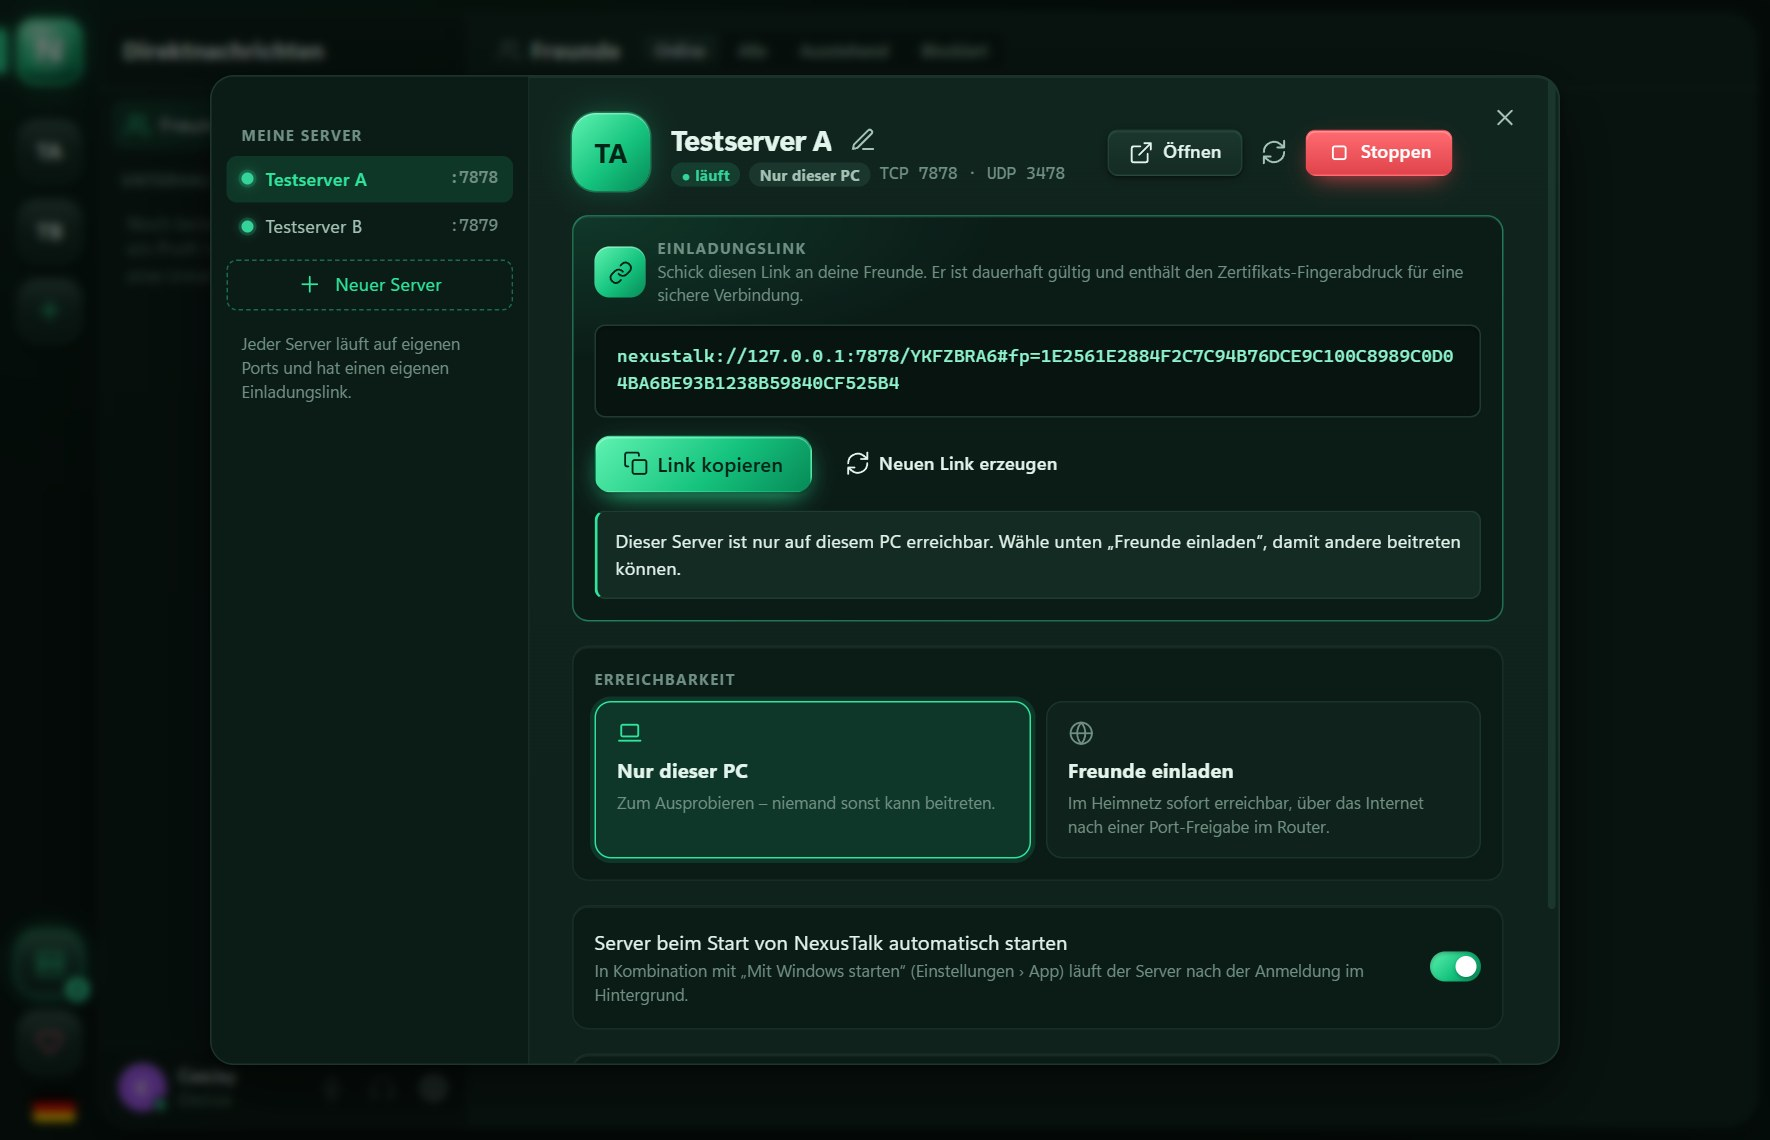
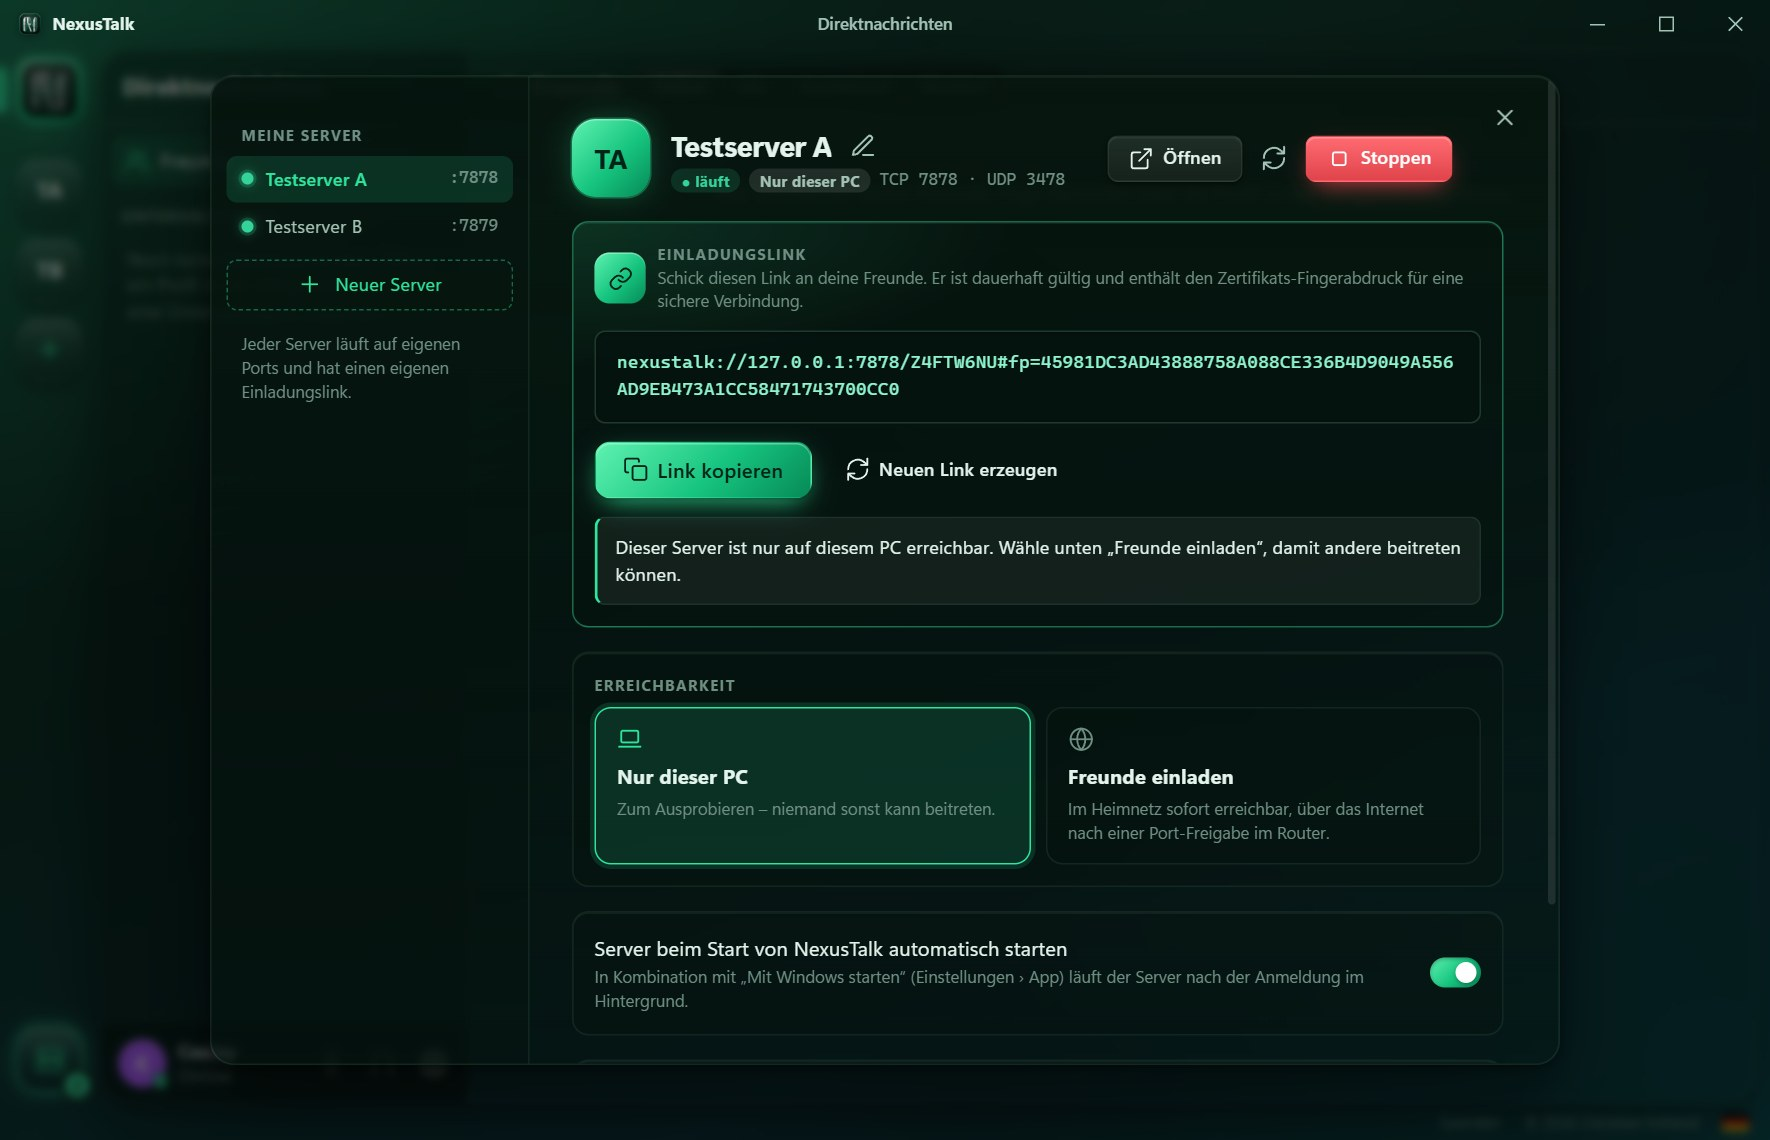
NexusTalk 0.4.0
- Version 0.4.0 (Cargo, Tauri, package.json)
- Projektseite: neues Logo, Seitenkopf mit echter Desktop-Ansicht
  (eigene Titelleiste), Abschnitt zu Farbverlauf-Designs, Sounds und Logo,
  Galerie mit allen zehn Designs, neue Screenshots
- shots.mjs an Fußzeile/Einstellungen angepasst
- Doku auf Stand 0.4.0

diff --git a/website/index.html b/website/index.html
@@ -12,7 +12,7 @@
 <meta property="og:type" content="website">
 <meta property="og:title" content="NexusTalk – Deine Community. Dein Server.">
 <meta property="og:description" content="Selbst hostbare Alternative zu Discord: Text, Sprache, Video und Bildschirm – ohne Cloud, ohne Werbung, ohne Tracking.">
-<meta property="og:image" content="https://nexustalk-app.netlify.app/assets/shots/emerald-de-chat.jpg">
+<meta property="og:image" content="https://nexustalk-app.netlify.app/assets/shots/desk-emerald.jpg">
 <meta property="og:url" content="https://nexustalk-app.netlify.app/">
 <meta name="twitter:card" content="summary_large_image">
 <script type="application/ld+json">
@@ -22,11 +22,11 @@
   "name": "NexusTalk",
   "operatingSystem": "Windows 10, Windows 11 (x64)",
   "applicationCategory": "CommunicationApplication",
-  "softwareVersion": "0.3.0",
+  "softwareVersion": "0.4.0",
   "offers": { "@type": "Offer", "price": "0", "priceCurrency": "EUR" },
-  "downloadUrl": "https://nexustalk-app.netlify.app/download/NexusTalk_0.3.0_x64-setup.exe",
+  "downloadUrl": "https://nexustalk-app.netlify.app/download/NexusTalk_0.4.0_x64-setup.exe",
   "image": "https://nexustalk-app.netlify.app/assets/logo.png",
-  "screenshot": "https://nexustalk-app.netlify.app/assets/shots/emerald-de-chat.jpg",
+  "screenshot": "https://nexustalk-app.netlify.app/assets/shots/desk-emerald.jpg",
   "license": "https://opensource.org/licenses/MIT",
   "author": { "@type": "Person", "name": "Christian Schiessl", "url": "https://cjs86.netlify.app" }
 }
@@ -441,11 +441,11 @@ footer .brand { font-size: 15px; }
     <div class="wrap hero-grid">
       <div>
         <div class="logo3d"><img src="assets/logo.png" alt="NexusTalk Logo" width="120" height="120"></div>
-        <span class="eyebrow"><span class="dot"></span>Neu in 0.3.0: mehrere Server hosten · kostenlos · MIT</span>
+        <span class="eyebrow"><span class="dot"></span>Neu in 0.4.0: Farbverlauf-Designs &amp; Sounds · kostenlos · MIT</span>
         <h1>Deine Community.<br><em>Dein Server.</em></h1>
         <p class="lead">NexusTalk ist eine schlanke Alternative zu Discord für Windows: Text, Sprache, Video und Bildschirmübertragung – auf einem Server, der dir gehört. Per Klick direkt in der App gestartet. Keine Cloud, keine Werbung, kein Tracking.</p>
         <div class="hero-actions">
-          <a class="btn primary" href="download/NexusTalk_0.3.0_x64-setup.exe" download><svg><use href="#i-windows"/></svg>Für Windows herunterladen</a>
+          <a class="btn primary" href="download/NexusTalk_0.4.0_x64-setup.exe" download><svg><use href="#i-windows"/></svg>Für Windows herunterladen</a>
           <a class="btn" href="#vergleich">Warum nicht Discord?</a>
         </div>
         <div class="hero-meta">
@@ -456,8 +456,7 @@ footer .brand { font-size: 15px; }
       </div>
       <div class="stage">
         <div class="device" id="device">
-          <div class="bar"><i></i><i></i><i></i><span>NexusTalk – Cyber Crew</span></div>
-          <img src="assets/shots/emerald-de-chat.jpg" alt="NexusTalk Textkanal im Design Smaragd" width="2040" height="1230">
+          <img src="assets/shots/desk-emerald.jpg" alt="NexusTalk Desktop-App im Design Smaragd mit eigener Titelleiste" width="1770" height="1140">
         </div>
         <div class="floating-card fc1"><span class="ic"><svg><use href="#i-mic"/></svg></span><div><b>Sprachverbindung</b><small>Opus · Rauschunterdrückung</small></div></div>
         <div class="floating-card fc2"><span class="ic"><svg><use href="#i-lock"/></svg></span><div><b>TLS-verschlüsselt</b><small>Zertifikat per Fingerabdruck geprüft</small></div></div>
@@ -489,7 +488,7 @@ footer .brand { font-size: 15px; }
         <div class="card reveal"><div class="ficon"><svg><use href="#i-shield"/></svg></div><h3>Sicher ab Werk</h3><p>TLS-Verschlüsselung, Zertifikatsprüfung per Fingerabdruck, Argon2-Passwörter, Rate-Limits, Audit-Log und Einladungs-Registrierung.</p></div>
         <div class="card reveal"><div class="ficon"><svg><use href="#i-users"/></svg></div><h3>Rollen &amp; Rechte</h3><p>Feingranulare Rechte pro Rolle und pro Kanal, Moderation, Bann, Freigabe neuer Konten, Backups und Wiederherstellung.</p></div>
         <div class="card reveal"><div class="ficon"><svg><use href="#i-feather"/></svg></div><h3>Federleicht</h3><p>Rust und Tauri statt Electron: ≈ 5 MB Installer, Start in unter einer Sekunde, der Server braucht im Leerlauf rund 14 MB RAM.</p></div>
-        <div class="card reveal"><div class="ficon"><svg><use href="#i-bolt"/></svg></div><h3>Durchdacht im Alltag</h3><p>Schnellwechsler (Strg+K), Tastenkürzel, Freunde &amp; Direktnachrichten, Auto-Abwesend, Benachrichtigungen, Autostart und Tray.</p></div>
+        <div class="card reveal"><div class="ficon"><svg><use href="#i-bolt"/></svg></div><h3>Durchdacht im Alltag</h3><p>Dezente Sounds beim Beitreten und Wechseln, Schnellwechsler (Strg+K), Tastenkürzel, Freunde &amp; Direktnachrichten, Auto-Abwesend, Benachrichtigungen, Autostart und Tray.</p></div>
       </div>
     </div>
   </section>
@@ -497,9 +496,18 @@ footer .brand { font-size: 15px; }
   <section id="neu">
     <div class="wrap">
       <div class="sec-head reveal">
-        <div class="kicker">Neu in 0.3.0</div>
-        <h2>Hosten so einfach wie Chatten</h2>
-        <p>Die grüne Schaltfläche unten links öffnet deine Hosting-Zentrale. Name eingeben, „Erstellen &amp; starten“, Link kopieren – fertig.</p>
+        <div class="kicker">Neu in 0.4.0 &amp; 0.3.0</div>
+        <h2>Ein neuer Look – und Hosten so einfach wie Chatten</h2>
+        <p>Farbverläufe durch die ganze App, eine Titelleiste im selben Design, dezente Sounds und ein neues Logo. Dazu die Hosting-Zentrale: Name eingeben, „Erstellen &amp; starten“, Link kopieren – fertig.</p>
+      </div>
+      <div class="showcase rev reveal">
+        <div class="show-text">
+          <span class="show-num">✦</span>
+          <h3>Designs mit Tiefe und Farbverlauf</h3>
+          <p>Alle zehn Designs legen einen satten Verlauf hinter die ganze Oberfläche – Seitenleiste, Chat und Mitgliederliste schweben halbtransparent darüber, Fenster und Menüs bekommen einen Glas-Effekt. Selbst die Titelleiste ist Teil des Designs.</p>
+          <ul class="ticks"><li>Eigene Titelleiste statt grauer Windows-Leiste</li><li>Dezente, freundliche Sounds beim Beitreten, Verlassen und Wechseln</li><li>Neues Logo: das mechanische N</li></ul>
+        </div>
+        <div class="show-img"><img src="assets/shots/desk-sunset.jpg" alt="NexusTalk im Design Sonnenuntergang mit Farbverlauf" width="1770" height="1140" loading="lazy"></div>
       </div>
       <div class="showcase reveal">
         <div class="show-text">
@@ -571,7 +579,7 @@ footer .brand { font-size: 15px; }
       <div class="sec-head reveal">
         <div class="kicker">Designs</div>
         <h2>Zehn Designs, eine Handschrift</h2>
-        <p>Feine Linien, Tiefe und Licht: Jedes Design hat eigene Farben, Schatten und Glanzkanten – vom grünen Standard „Smaragd“ bis zum OLED-tiefen „Obsidian“.</p>
+        <p>Farbverläufe, Tiefe und Licht: Jedes Design hat einen eigenen Verlauf hinter der ganzen App, eigene Farben, Schatten und Glanzkanten – vom grünen Standard „Smaragd“ bis zum OLED-tiefen „Obsidian“.</p>
       </div>
       <div class="gallery reveal">
         <div class="shot-main"><img id="shot" src="assets/shots/emerald-de-chat.jpg" alt="NexusTalk Vorschau" width="2040" height="1230" loading="lazy"></div>
@@ -588,7 +596,7 @@ footer .brand { font-size: 15px; }
       <div class="sec-head reveal">
         <div class="kicker">Sprachen</div>
         <h2>Spricht 15 Sprachen</h2>
-        <p>Ein Klick auf die Landesflagge unten links in der App – sofort umgestellt, inklusive Rechts-nach-links für Arabisch.</p>
+        <p>Ein Klick auf die kleine Landesflagge unten rechts in der Fußzeile – sofort umgestellt, inklusive Rechts-nach-links für Arabisch.</p>
       </div>
       <div class="langs reveal" id="langs"></div>
     </div>
@@ -615,14 +623,14 @@ footer .brand { font-size: 15px; }
       <div class="dl reveal">
         <div class="dl-main">
           <div class="kicker" style="font-size:12.5px;letter-spacing:1.4px;text-transform:uppercase;color:var(--accent);font-weight:600">Download</div>
-          <h2>NexusTalk 0.3.0 für Windows</h2>
+          <h2>NexusTalk 0.4.0 für Windows</h2>
           <p style="color:var(--muted);margin:0">Ein Installer für alles: Client und eingebauter Server. Kostenlos, ohne Werbung, ohne Konto bei Dritten.</p>
           <div class="dl-file">
             <img src="assets/logo.png" alt="">
-            <div style="flex:1"><b>NexusTalk_0.3.0_x64-setup.exe</b><small>Windows 10/11 · 64 Bit · <span data-size>4,8 MB</span></small></div>
+            <div style="flex:1"><b>NexusTalk_0.4.0_x64-setup.exe</b><small>Windows 10/11 · 64 Bit · <span data-size>4,8 MB</span></small></div>
           </div>
-          <a class="btn primary" href="download/NexusTalk_0.3.0_x64-setup.exe" download><svg><use href="#i-download"/></svg>Jetzt herunterladen</a>
-          <div class="hash">SHA-256: <span class="mono" id="sha-client">2a13b129e7a4489c1a4474bad71bf3e9e62aeb4cba37c15d9b7ceeab0f70d24c</span></div>
+          <a class="btn primary" href="download/NexusTalk_0.4.0_x64-setup.exe" download><svg><use href="#i-download"/></svg>Jetzt herunterladen</a>
+          <div class="hash">SHA-256: <span class="mono" id="sha-client">c5a9e9039f3303083eac21c9afe5d66698f6fb34faa10558761754808a163cf6</span></div>
         </div>
         <div class="dl-side">
           <h3>Systemvoraussetzungen</h3>
@@ -636,7 +644,7 @@ footer .brand { font-size: 15px; }
             <div><b>Headless-Server für Windows</b><small>nexustalk-server.exe · <span id="srv-size">7,0 MB</span> · ohne Oberfläche</small></div>
             <a class="btn small" href="download/nexustalk-server.exe" download><svg><use href="#i-download"/></svg>Server</a>
           </div>
-          <p class="hash">SHA-256 Server: <span class="mono" id="sha-server">622d92d2ff61ba346454dd6e7dee59a995ede71b3b40a5fece0c7cdc38fc183d</span></p>
+          <p class="hash">SHA-256 Server: <span class="mono" id="sha-server">2e08e45e03d15d0b5cc424df66306cd69155e7ce6b4fbbaec4e6669d61008b85</span></p>
           <p class="hash" style="margin-top:10px">Hinweis: Der Installer ist (noch) nicht code-signiert. Windows SmartScreen kann deshalb warnen – „Weitere Informationen“ → „Trotzdem ausführen“. Prüfe im Zweifel die Prüfsumme.</p>
         </div>
       </div>
@@ -712,12 +720,12 @@ footer .brand { font-size: 15px; }
     ["jade", "Jade", "hell", ["#d8ece2", "#eaf6f0", "#fbfefc", "#0e9f68", "#34d399"], "jade-de-chat.jpg"],
     ["midnight", "Mitternacht", "dunkel", ["#070b18", "#0b1122", "#0f172c", "#6b97ff", "#a9c2ff"], "midnight-de-chat.jpg"],
     ["aurora", "Aurora", "dunkel", ["#0b0a1a", "#110f24", "#15132c", "#a78bfa", "#2dd4bf"], "aurora-de-settings.jpg"],
-    ["obsidian", "Obsidian", "OLED-schwarz", ["#000000", "#070707", "#0b0b0b", "#b6f23d", "#dcff8f"], null],
+    ["obsidian", "Obsidian", "OLED-schwarz", ["#000000", "#070707", "#0b0b0b", "#b6f23d", "#dcff8f"], "obsidian-de-chat.jpg"],
     ["sakura", "Sakura", "hell", ["#f6dfe8", "#fcf0f5", "#fffbfd", "#e0558a", "#f78fb3"], "sakura-de-about.jpg"],
-    ["arctic", "Arktis", "hell", ["#dce8f2", "#edf4fa", "#fbfdff", "#1683e0", "#00b8d4"], null],
+    ["arctic", "Arktis", "hell", ["#dce8f2", "#edf4fa", "#fbfdff", "#1683e0", "#00b8d4"], "arctic-de-chat.jpg"],
     ["sunset", "Sonnenuntergang", "dunkel", ["#130b0d", "#1a0f13", "#201418", "#ff7a45", "#ff4d8d"], "sunset-de-voice.jpg"],
     ["neon", "Neon", "dunkel", ["#05050c", "#090914", "#0d0d1b", "#00e5ff", "#ff2bd6"], "neon-en-chat.jpg"],
-    ["sandstone", "Sandstein", "hell", ["#e6dccc", "#f4ede2", "#fdfaf5", "#c0623b", "#d99b4a"], null],
+    ["sandstone", "Sandstein", "hell", ["#e6dccc", "#f4ede2", "#fdfaf5", "#c0623b", "#d99b4a"], "sandstone-de-chat.jpg"],
   ];
   const themesEl = document.getElementById("themes");
   const shot = document.getElementById("shot");

diff --git a/app/src/ui/dialogs/About.tsx b/app/src/ui/dialogs/About.tsx
@@ -48,7 +48,7 @@ export function AboutDialog() {
         <div>
           <h2 style={{ margin: 0, fontSize: "var(--fs-2xl)" }}>NexusTalk</h2>
           <div class="muted">{t("about.tagline")}</div>
-          <div class="faint small">{t("about.version", { version: version ?? "0.3.0" })}</div>
+          <div class="faint small">{t("about.version", { version: version ?? "0.4.0" })}</div>
         </div>
       </div>
       <dl class="kv card">

diff --git a/docs/STATUS.md b/docs/STATUS.md
@@ -1,4 +1,4 @@
-# Funktionsstand (Version 0.3.0)
+# Funktionsstand (Version 0.4.0)
 
 Legende: ✅ implementiert und getestet · 🟡 implementiert, nur teilweise/manuell oder nicht automatisiert getestet · ⬜ offen
 
@@ -79,7 +79,7 @@ Legende: ✅ implementiert und getestet · 🟡 implementiert, nur teilweise/man
 | Automatische Updates | ⬜ Konzept dokumentiert (INSTALL.md), nicht aktiviert |
 | Code-Signatur des Installers | ⬜ (SmartScreen-Warnung beim ersten Start möglich) |
 
-### Fensterrahmen, Designs, Sounds (nach 0.3.0)
+### Fensterrahmen, Designs, Sounds (neu in 0.4.0)
 | Funktion | Stand |
 |---|---|
 | Eigene Titelleiste statt Windows-Leiste (Farben des Designs, Ort in der Mitte, Minimieren/Maximieren/Schließen, Ziehen, Doppelklick) | ✅ Desktop-E2E `chrome.mjs`; 🟡 Einrasten per Windows-Snap-Layout-Menü am Maximieren-Knopf entfällt (Win+Pfeiltasten und Ziehen an den Rand funktionieren) |

diff --git a/docs/BENCHMARK.md b/docs/BENCHMARK.md
@@ -17,8 +17,8 @@ CPU-Angaben: „% eines Kerns“ (100 % = ein voll ausgelasteter Kern) bzw. „%
 
 | Artefakt | Größe |
 |---|---|
-| NSIS-Installer `NexusTalk_0.3.0_x64-setup.exe` | **4,8 MB** (0.1.0: 4,5 MB) |
-| MSI `NexusTalk_0.3.0_x64_de-DE.msi` | 6,6 MB |
+| NSIS-Installer `NexusTalk_0.4.0_x64-setup.exe` | **4,8 MB** (0.1.0: 4,5 MB) |
+| MSI `NexusTalk_0.4.0_x64_de-DE.msi` | 6,6 MB |
 | Installationsordner (App inkl. eingebettetem Server) | **15,6 MB** |
 | Headless-Server `nexustalk-server.exe` | 7,0 MB |
 | Weboberfläche (JS gzip / CSS gzip) | 56 KB / 6 KB |
